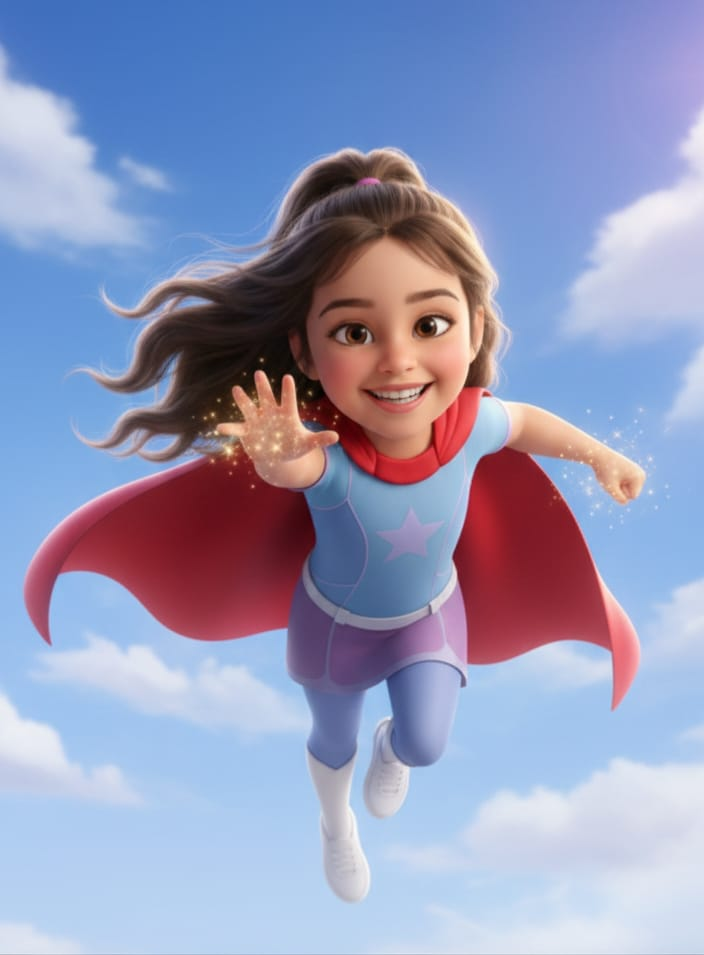
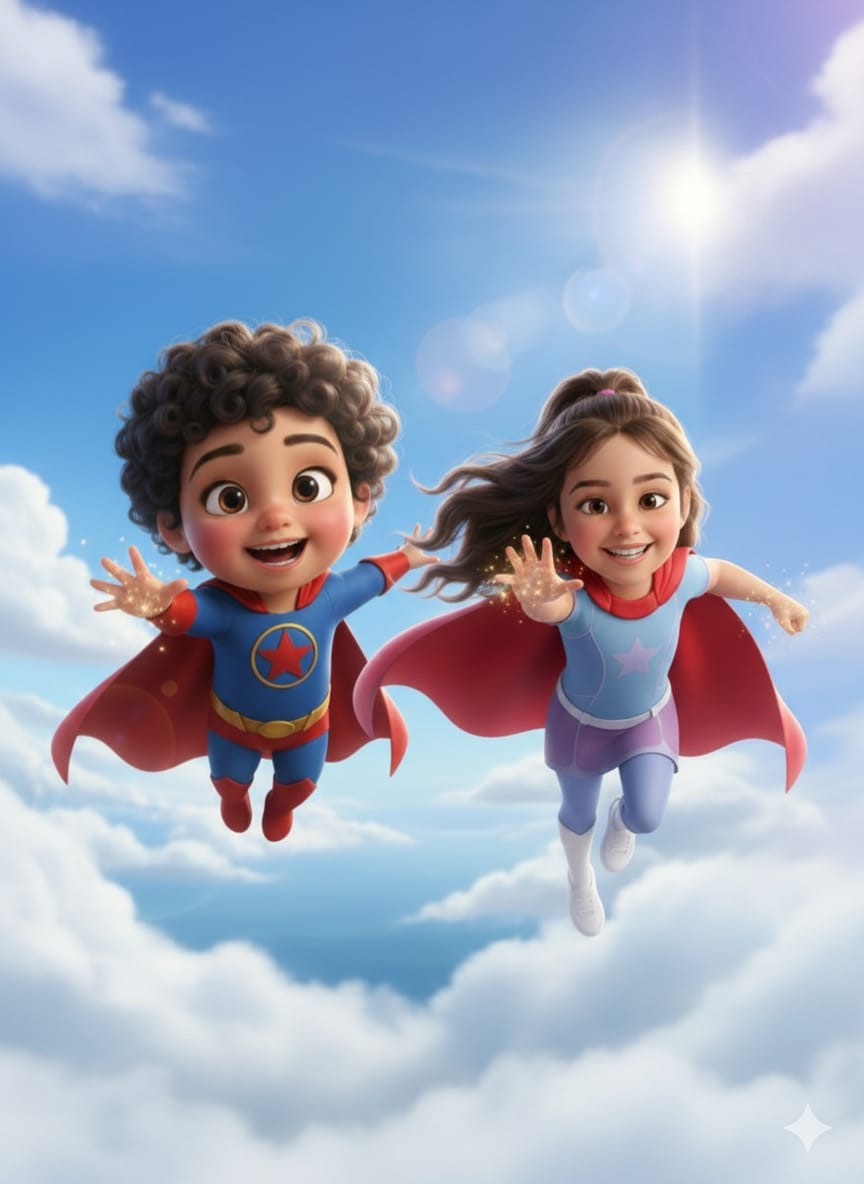
Changes

diff --git a/src/components/home/GuestLanding.tsx b/src/components/home/GuestLanding.tsx
@@ -64,16 +64,26 @@ const GuestLanding = () => {
         <div className="absolute top-24 left-1/3 w-28 h-14 bg-white/40 rounded-full blur-md" />
         <div className="absolute top-32 right-1/4 w-18 h-9 bg-white/35 rounded-full blur-md" />
         
-        {/* Hero flying girl image - positioned between titles and feature boxes */}
-        <div className="absolute top-44 sm:top-48 left-1/2 -translate-x-1/2 w-44 h-44 sm:w-52 sm:h-52">
-          <img 
-            src={heroFlyingGirl} 
-            alt="ילדה עפה בשמיים" 
-            className="w-full h-full object-contain drop-shadow-2xl"
-            style={{ 
-              filter: 'drop-shadow(0 10px 25px rgba(0,0,0,0.2))'
+        {/* Hero flying children image - positioned between titles and feature boxes with glass effect */}
+        <div className="absolute top-44 sm:top-48 left-1/2 -translate-x-1/2 w-52 h-52 sm:w-64 sm:h-64">
+          <div 
+            className="w-full h-full rounded-3xl overflow-hidden backdrop-blur-sm"
+            style={{
+              background: 'rgba(255, 255, 255, 0.15)',
+              boxShadow: '0 8px 32px rgba(135, 206, 235, 0.3), inset 0 0 20px rgba(255, 255, 255, 0.2)',
+              border: '1px solid rgba(255, 255, 255, 0.3)'
             }}
-          />
+          >
+            <img 
+              src={heroFlyingGirl} 
+              alt="ילדים עפים בשמיים" 
+              className="w-full h-full object-cover opacity-90"
+              style={{ 
+                filter: 'drop-shadow(0 4px 15px rgba(0,0,0,0.1))',
+                mixBlendMode: 'normal'
+              }}
+            />
+          </div>
         </div>
         
         {/* Subtle warm overlay at bottom for depth */}
